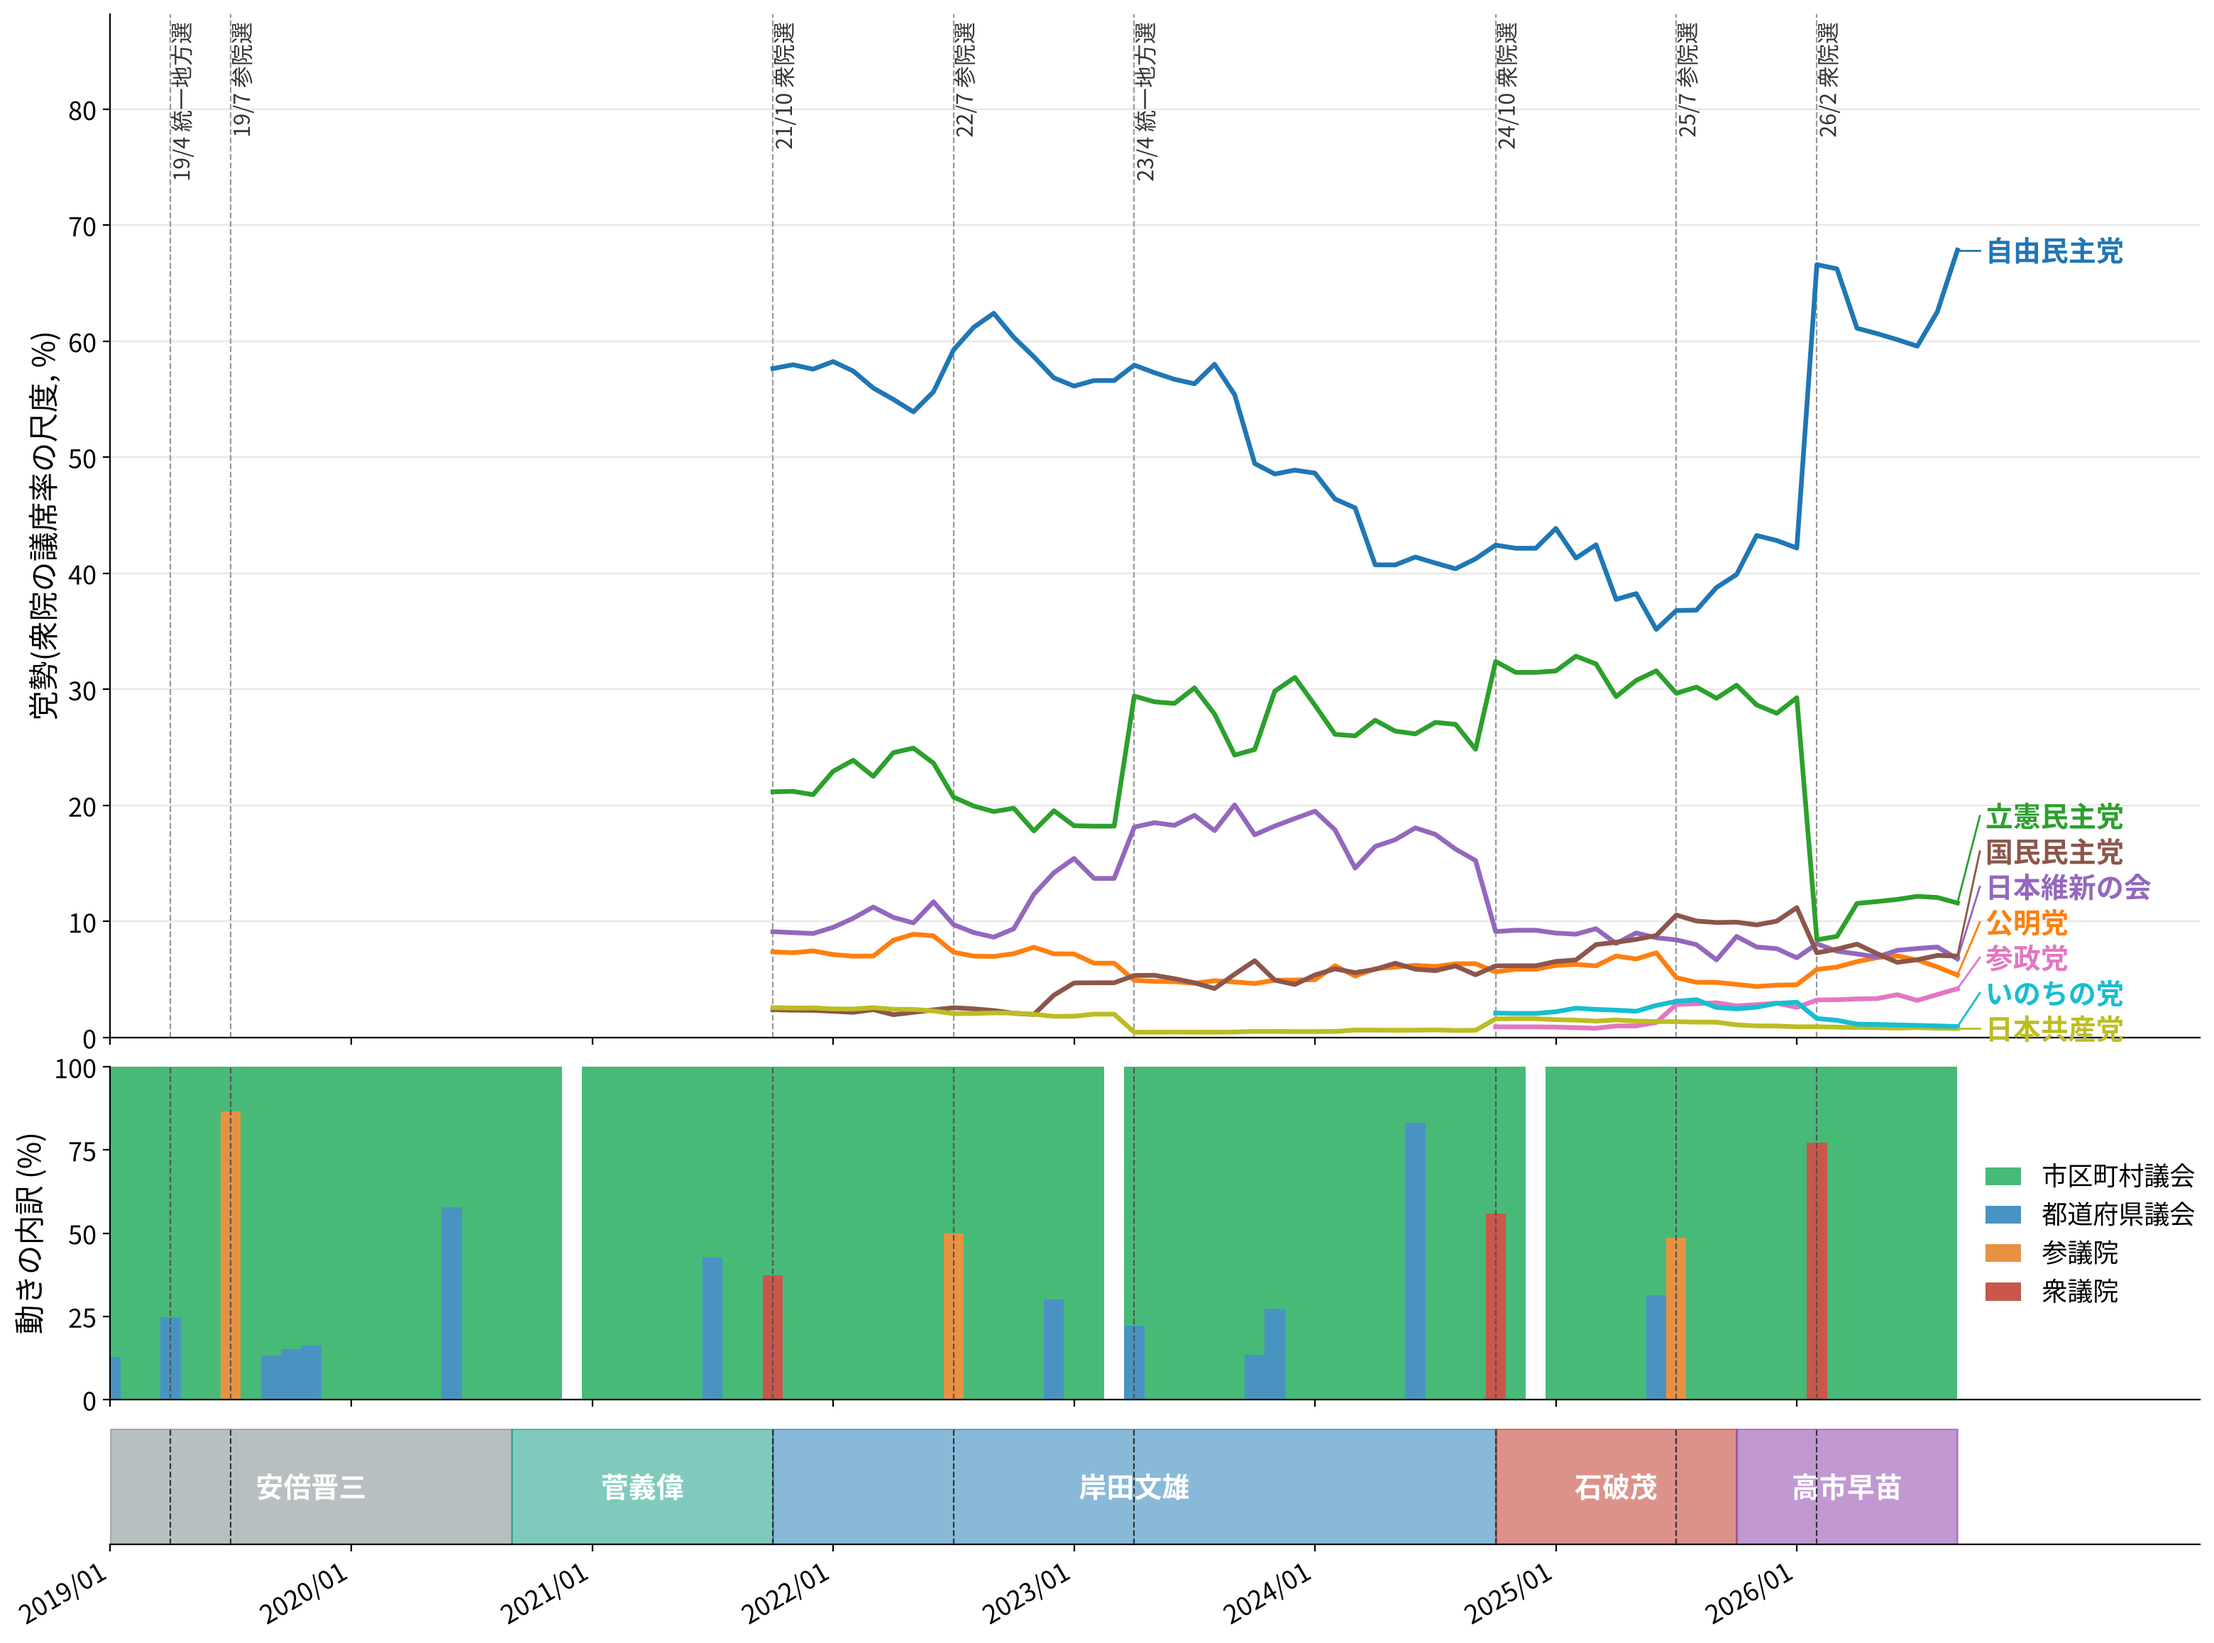
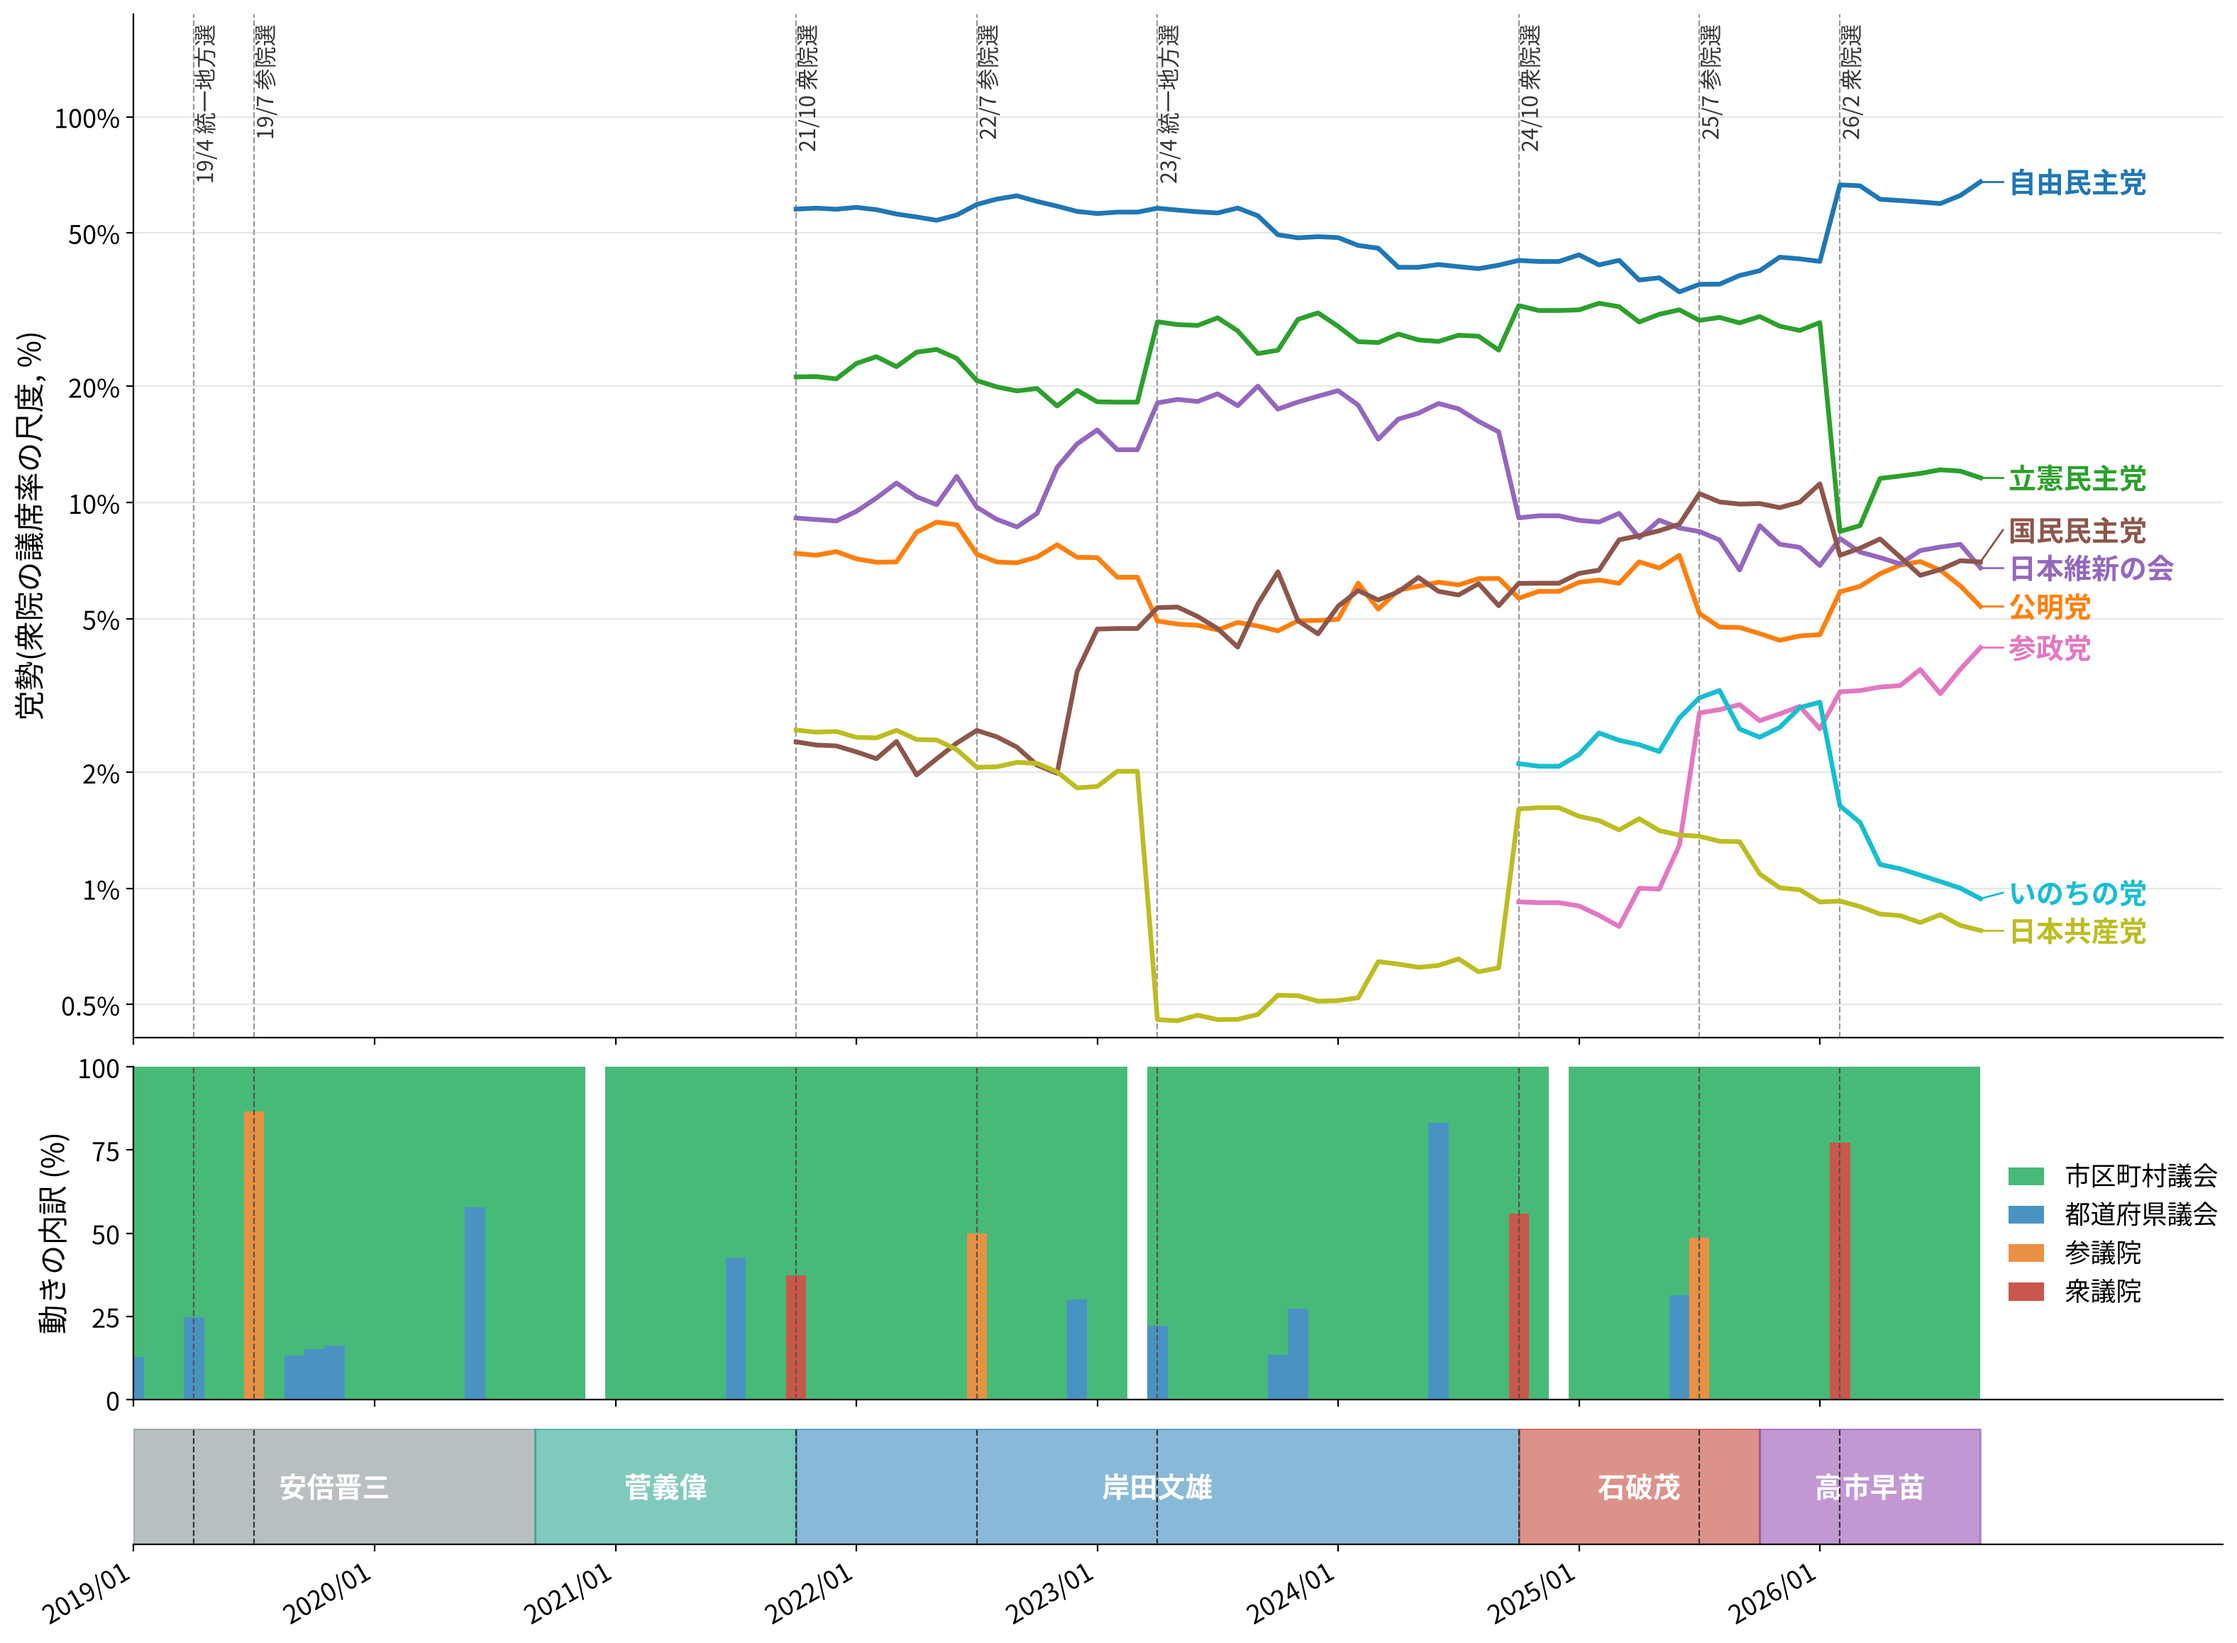
党勢指数v2の図1・図2の縦軸を対数にし、議席率の小さい党の動きも読めるようにする

diff --git a/src/seiryoku/charts.py b/src/seiryoku/charts.py
@@ -936,6 +936,17 @@ def _party_colors(plt, parties: list[str]) -> dict:
     return dict(zip(order, plt.cm.tab10(np.linspace(0, 1, max(10, len(order))))))
 
 
+def _log_percent_axis(ax, scale: float = 1.0) -> None:
+    """縦軸を対数にし、1・2・5の目盛りを%で付ける。scaleは値を%に直す倍率。"""
+    from matplotlib.ticker import FuncFormatter, LogLocator, NullLocator
+
+    ax.set_yscale("log")
+    ax.yaxis.set_major_locator(LogLocator(subs=(1, 2, 5)))
+    ax.yaxis.set_minor_locator(NullLocator())
+    # ラベル用の上の余白に100%を超える目盛りが出ても意味がないので消す
+    ax.yaxis.set_major_formatter(FuncFormatter(lambda v, _: f"{v * scale:g}%" if v * scale <= 100 else ""))
+
+
 def _spread_labels(ys: list[float], gap: float) -> list[float]:
     """右端のラベルの縦位置を、元の順序を保ったまま最小間隔gapまで押し広げる。"""
     order = sorted(range(len(ys)), key=lambda i: ys[i])
@@ -975,7 +986,7 @@ def generate_trend_chart(result: dict, out_path: Path = TREND_OUT_PATH) -> Path:
         3, 1, figsize=(19, 14), dpi=200, sharex=True,
         gridspec_kw={"height_ratios": [8, 2.6, 0.9], "hspace": 0.06},
     )
-    ends, ymax_by_party = {}, {}
+    ends, ymax_by_party, ymin_by_party = {}, {}, {}
     for party in parties:
         # 最初の衆院選までは衆院の尺度に合わせる手がかりがなく、その時点の値は事前分布と
         # 参院選からの換算のずれに左右されるので描かない
@@ -988,11 +999,15 @@ def generate_trend_chart(result: dict, out_path: Path = TREND_OUT_PATH) -> Path:
         ax1.plot(xs, ys, color=colors[party], linewidth=2.4, zorder=3)
         ends[party] = ys[-1]
         ymax_by_party[party] = max(ys)
+        ymin_by_party[party] = min(ys)
     drawn = [p for p in parties if p in ends]
     ymax = max(ymax_by_party[p] for p in drawn)
-    # 選挙のラベルを線に重ねないよう、上に余白を取ってそこに置く
-    ax1.set_ylim(0, ymax * 1.3)
-    label_y = _spread_labels([ends[p] for p in drawn], gap=ymax * 0.045)
+    ymin = min(ymin_by_party[p] for p in drawn)
+    # 選挙のラベルを線に重ねないよう、上に余白を取ってそこに置く。余白は対数の目盛りで線の幅の2割
+    span = math.log10(ymax / ymin)
+    ax1.set_ylim(ymin / 10 ** (span * 0.02), ymax * 10 ** (span * 0.2))
+    _log_percent_axis(ax1)
+    label_y = [10 ** v for v in _spread_labels([math.log10(ends[p]) for p in drawn], gap=span * 0.045)]
     for party, ly in zip(drawn, label_y):
         ax1.plot([n_months - 1, n_months - 1 + n_months * 0.012], [ends[party], ly],
                  color=colors[party], linewidth=1.0, zorder=3)
@@ -1000,7 +1015,8 @@ def generate_trend_chart(result: dict, out_path: Path = TREND_OUT_PATH) -> Path:
                  va="center", ha="left", weight="bold")
     for i, label in events:
         ax1.axvline(i, color="#999999", linewidth=0.8, linestyle="--", zorder=1)
-        ax1.text(i, ymax * 1.29, label, fontsize=11, rotation=90, ha="left", va="top", color="#333333")
+        ax1.text(i, 0.99, label, fontsize=11, rotation=90, ha="left", va="top", color="#333333",
+                 transform=ax1.get_xaxis_transform())
     ax1.set_ylabel("党勢(衆院の議席率の尺度, %)", fontsize=15)
     ax1.tick_params(axis="both", labelsize=13)
     ax1.grid(axis="y", alpha=0.3)
@@ -1099,7 +1115,7 @@ def generate_trend_by_party_chart(result: dict, validation: dict | None = None,
             yp, lo, hi = (to_x(h[k], h["level"]) for k in ("pred", "lo", "hi"))
             ax.errorbar(d, yp, yerr=[[yp - lo], [hi - yp]], fmt="x", color="C3", ms=7, capsize=3, zorder=4)
         ax.set_title(party, fontsize=13)
-        ax.set_ylim(0, 0.85)
+        _log_percent_axis(ax, scale=100)
         ax.grid(alpha=0.3)
         ax.xaxis.set_major_locator(mdates.YearLocator(2))
         ax.xaxis.set_major_formatter(mdates.DateFormatter("%Y"))
